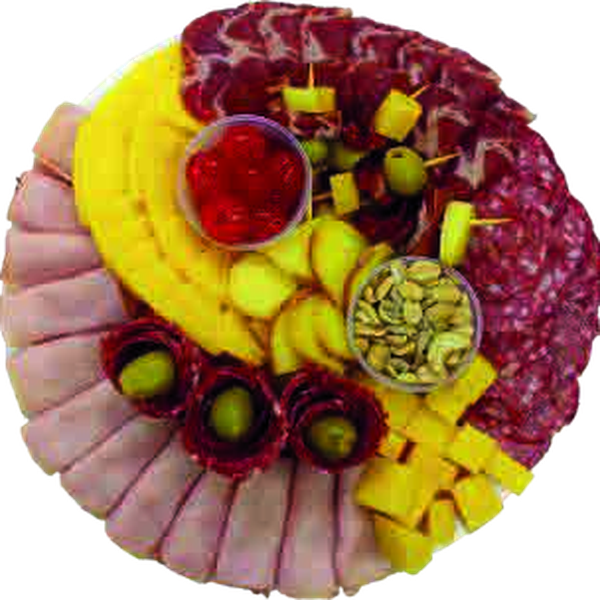
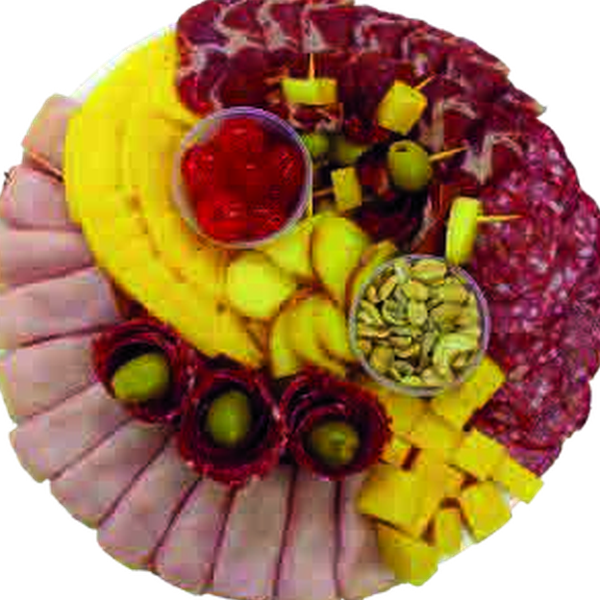
Renombro Fanaticos a FAN, zoom +2% en FAN y Champion

diff --git a/index.html b/index.html
@@ -979,7 +979,7 @@ const PICADAS = [
   },
   {
     id: 'fan',
-    nombre: 'Picada Fanáticos',
+    nombre: 'Picada FAN',
     img: 'images/fan.png',
     ingredientes: 'Roquefort · Fontina · Pategrás · Lomo · Jamón Crudo · Bondiola · Bastón Español · Bastón Grueso · Leber · Cereza · Aceitunas Negras',
     tablita: 33625, tabla: 43613
